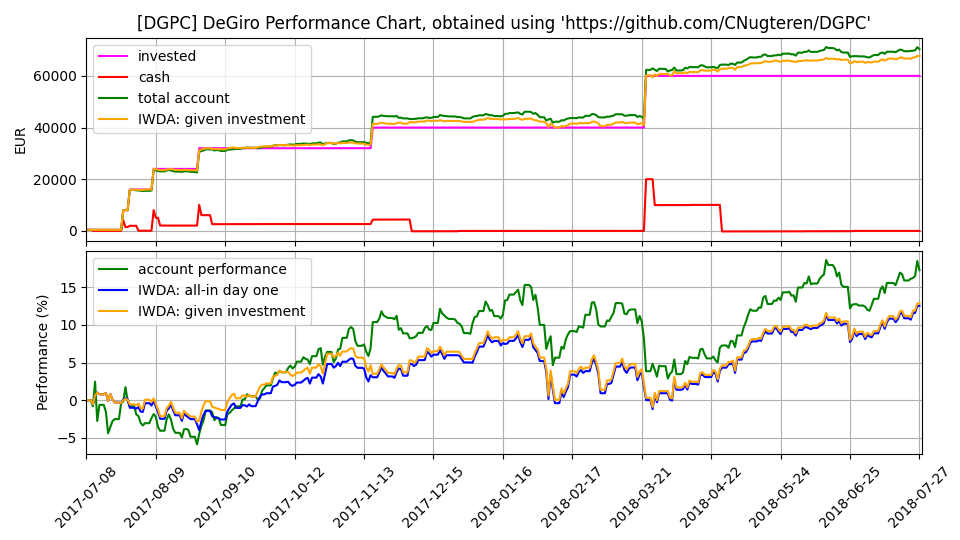
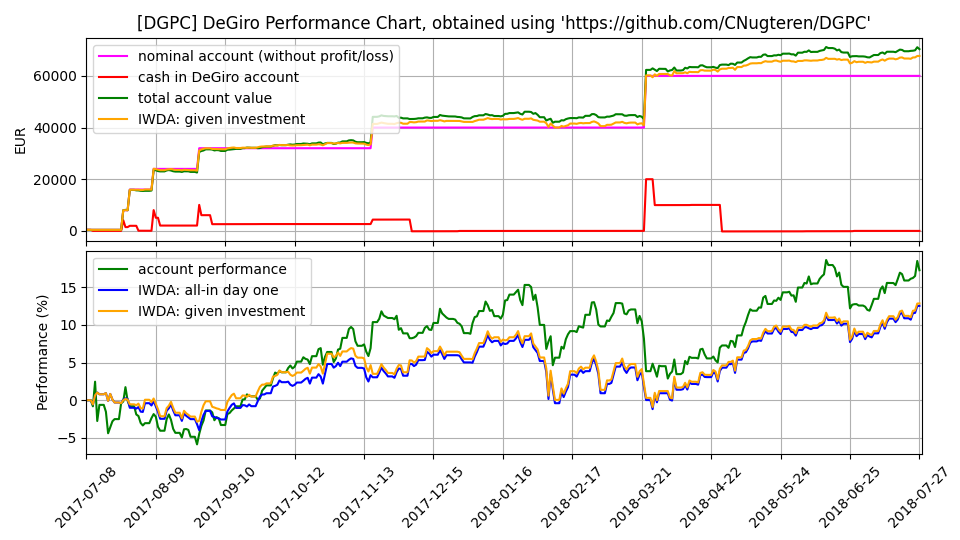
Updated labels in the graph and clarified the README on what the data means

Changed region(s): [[0.125, 0.0889, 0.4062, 0.2074], [0.3438, 0.2074, 0.4375, 0.2667]]

diff --git a/tests/test_degiro.py b/tests/test_degiro.py
@@ -18,9 +18,9 @@ def test_parse_cash_addition() -> None:
     ]))
     dates = [datetime.date(2020, 3, 9) + datetime.timedelta(days=days) for days in range(0, 4)]
 
-    absolute_data, _ = degiro.parse_account(csv_data, dates)
-    np.testing.assert_equal(absolute_data["invested"], absolute_data["cash"])
-    np.testing.assert_equal(absolute_data["invested"], [0, 500, 500, 1500])
+    abs_data, _ = degiro.parse_account(csv_data, dates)
+    np.testing.assert_equal(abs_data["nominal account (without profit/loss)"], abs_data["cash in DeGiro account"])
+    np.testing.assert_equal(abs_data["nominal account (without profit/loss)"], [0, 500, 500, 1500])
 
 
 def test_parse_buy_and_sell() -> None:
@@ -34,10 +34,10 @@ def test_parse_buy_and_sell() -> None:
     ]))
     dates = [datetime.date(2017, 7, 10) + datetime.timedelta(days=days) for days in range(0, 5)]
 
-    absolute_data, _ = degiro.parse_account(csv_data, dates)
-    np.testing.assert_allclose(absolute_data["invested"], [0, 500, 500, 500, 500])
-    np.testing.assert_allclose(absolute_data["cash"], [0, 402.816779, 402.816779, 632.661502, 632.661502])
-    np.testing.assert_allclose(absolute_data["total account"], [0, 499.720938, 502.992033, 632.661502, 632.661502])
+    abs_data, _ = degiro.parse_account(csv_data, dates)
+    np.testing.assert_allclose(abs_data["nominal account (without profit/loss)"], [0, 500, 500, 500, 500])
+    np.testing.assert_allclose(abs_data["cash in DeGiro account"], [0, 402.816779, 402.816779, 632.661502, 632.661502])
+    np.testing.assert_allclose(abs_data["total account value"], [0, 499.720938, 502.992033, 632.661502, 632.661502])
 
 
 def test_parse_transaction_costs() -> None:
@@ -51,7 +51,7 @@ def test_parse_transaction_costs() -> None:
     ]))
     dates = [datetime.date(2017, 7, 10) + datetime.timedelta(days=days) for days in range(0, 3)]
 
-    absolute_data, _ = degiro.parse_account(csv_data, dates)
-    np.testing.assert_allclose(absolute_data["invested"], [0, 500, 500])
-    np.testing.assert_allclose(absolute_data["cash"], [0, 500, 497.38])
-    np.testing.assert_allclose(absolute_data["total account"], [0, 500, 497.38])
+    abs_data, _ = degiro.parse_account(csv_data, dates)
+    np.testing.assert_allclose(abs_data["nominal account (without profit/loss)"], [0, 500, 500])
+    np.testing.assert_allclose(abs_data["cash in DeGiro account"], [0, 500, 497.38])
+    np.testing.assert_allclose(abs_data["total account value"], [0, 500, 497.38])

diff --git a/src/main.py b/src/main.py
@@ -92,8 +92,9 @@ def dgpc(input_file: Path, output_png: Path, output_csv: Path, end_date: datetim
         for name, values in absolute_data.items():
             absolute_data[name] = values[first_index:]
         # Relative data is recalculated to start at 0% performance at the given start date
-        invested_restart = absolute_data["invested"] + absolute_data["total account"][0] - absolute_data["invested"][0]
-        relative_data["account performance"] = absolute_data["total account"] / invested_restart
+        invested = absolute_data["nominal account (without profit/loss)"]
+        invested_restart = invested + absolute_data["total account value"][0] - invested[0]
+        relative_data["account performance"] = absolute_data["total account value"] / invested_restart
 
     # Add reference data to compare the graph with
     print(f"[DGPC] Retrieving reference data for {reference_isin}")
@@ -101,10 +102,11 @@ def dgpc(input_file: Path, output_png: Path, output_csv: Path, end_date: datetim
     if reference is None:
         print(f"[DGPC] Could not find data for reference {reference_isin}: {reference_name}, skipping")
     else:
-        reference_invested = compute_reference_invested(reference, absolute_data["invested"])
+        invested = absolute_data["nominal account (without profit/loss)"]
+        reference_invested = compute_reference_invested(reference, invested)
         absolute_data[f"{reference_name}: given investment"] = reference_invested
         relative_data[f"{reference_name}: all-in day one"] = reference / reference[0]
-        relative_data[f"{reference_name}: given investment"] = reference_invested / absolute_data["invested"]
+        relative_data[f"{reference_name}: given investment"] = reference_invested / invested
 
     # Plotting the final results
     print(f"[DGPC] Plotting results as image '{output_png}'")

diff --git a/src/degiro.py b/src/degiro.py
@@ -154,7 +154,9 @@ def parse_account(csv_data: List[List[str]], dates: List[datetime.date]) -> Tupl
 
     # Set the absolute value metrics
     total_account = shares_value + cash
-    absolutes = {"invested": invested, "cash": cash, "total account": total_account}
+    absolutes = {"nominal account (without profit/loss)": invested,
+                 "cash in DeGiro account": cash,
+                 "total account value": total_account}
 
     # Set the relative metrics
     performance = np.divide(total_account, invested, out=np.zeros_like(invested), where=invested != 0)

diff --git a/src/plot.py b/src/plot.py
@@ -11,16 +11,16 @@ from matplotlib import pyplot as plt
 
 def get_colour(label: str) -> Optional[str]:
     """Given the label of the thing to plot, determine the colour."""
-    if "account" in label:
-        return "green"
     if "given investment" in label:
         return "orange"
     if "all-in day one" in label:
         return "blue"
     if "cash" in label:
         return "red"
-    if "invested" in label:
+    if "nominal account" in label:
         return "magenta"
+    if "account" in label:
+        return "green"
     return None
 
 

diff --git a/README.md b/README.md
@@ -5,9 +5,9 @@ DGPC is a small and simple utility that parses CSV-exports from [DeGiro](degiro.
 ![Example DGPC output graph](doc/example_graph.png)
 
 The tool displays:
-* In green, the total value of the account, including current stock prices, dividend, fees, cash, etc.
-* In magenta, the total investment: money transferred in to the DeGiro account.
-* In red, the cash balance: cash on the DeGiro account plus optional 'bank cash' if money is transferred out.
+* In green, the total value of the DeGiro account, including current stock prices, dividend, fees, cash, etc. This is the sum of the cash balance (in red, see below) and the current value of stock/ETF (not shown).
+* In magenta, the total nominal account value: money transferred in to the DeGiro account, not taking into account losses or profits.
+* In red, the cash balance: cash on the DeGiro account plus optional 'bank cash' if money is transferred out. Note that if cash is booked in and invested as stocks on the same day, it will not show up in the graph.
 * In orange, a benchmark (default IWDA ETF) assuming all invested money was invested in this instead at time of availability.
 * In blue, the same benchmark, but now assuming all available money was invested on day 0.
 
